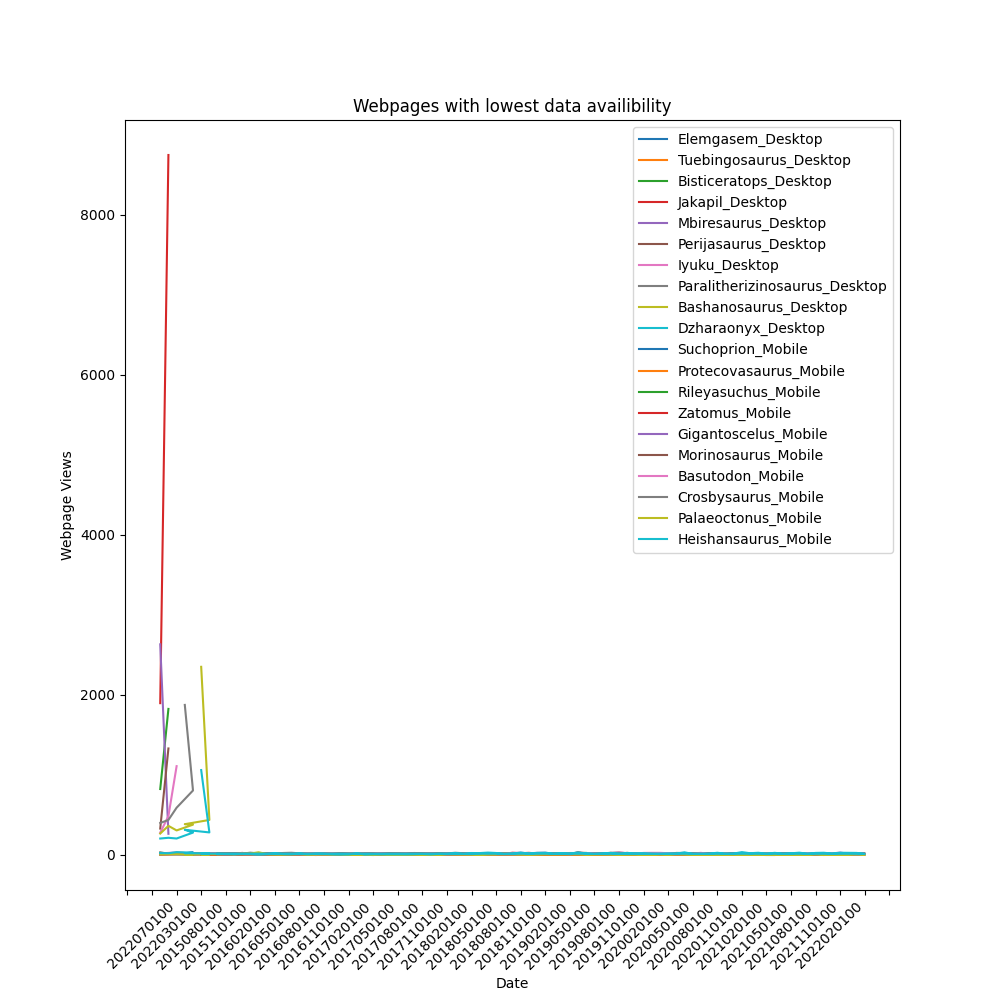
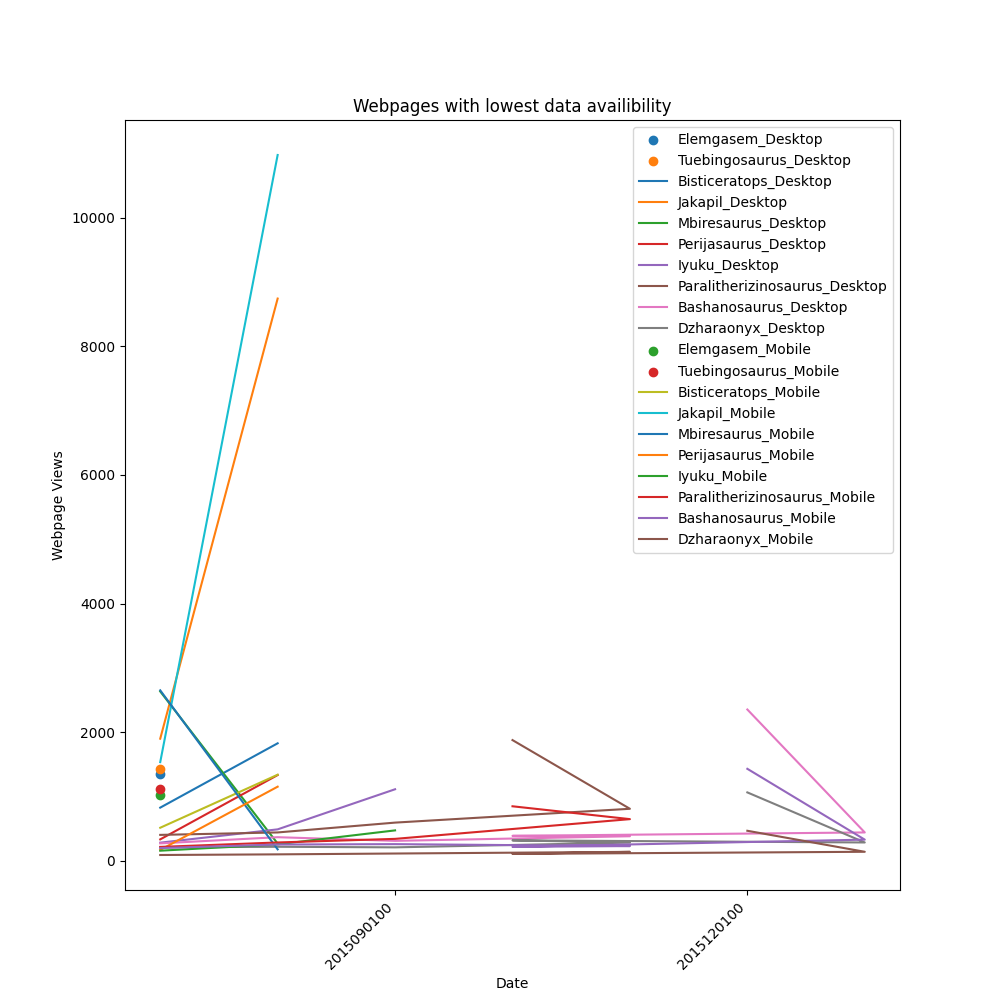
fixing an error with chart 3 which was showing X axis in a weird order

diff --git a/wikipedia_pageview_analysis.py b/wikipedia_pageview_analysis.py
@@ -66,15 +66,22 @@ def fewest_months_of_data_calculator(timeseries):
 
 #this function will take a dictionary containing names and timeseries and plot them all together on a matplotlib plot
 #also will take title of the plot and ylabel of the plot and an output file name to save the image to.
-def time_series_plotter(name_to_timeseries, title, ylabel, output_f_name):
+#if a definite X-Axis is to be set, set xaxis to a non-null value, a list.
+def time_series_plotter(name_to_timeseries, title, ylabel, output_f_name, xaxis = None):
     fig = plt.figure(figsize=(10, 10))
-    ax = fig.add_subplot(1,1,1)  
+    ax = fig.add_subplot(1,1,1)
+    print(xaxis)
+    if xaxis: #if we want to set a definite x axis we can do so.
+        plt.xticks([i for i in range(len(xaxis))],xaxis)
     for name, timeseries in name_to_timeseries.items():
         #timestamps = [datetime.strptime(month["timestamp"], "%Y%M%d%S") for month in timeseries]
         timestamps = [month["timestamp"] for month in timeseries]
         
         views = [month["views"] for month in timeseries]
-        plt.plot(timestamps, views, label=name)
+        if len(timestamps) == 1:
+            plt.scatter(timestamps, views, label=name)
+        else:
+            plt.plot(timestamps, views, label=name)
     ax.xaxis.set_major_locator(mdates.DayLocator(interval=3)) #this will set our x labels not to be so close together and only every 3 months
     plt.legend()
     plt.xticks(rotation=45, ha='right')
@@ -171,11 +178,13 @@ def generate_least_data_chart(desktop_json, mobile_json, output_f_name = CHART_3
 
     num_months_mobile = {}
     for name,timeseries in mobile_json.items():
-        num_months= max_page_view_calculator(timeseries)
+        num_months= fewest_months_of_data_calculator(timeseries)
         num_months_mobile[name] = num_months
     #lets identify which 10 dinosaur had least data on desktop and mobile
     lowest_months_desktop = sorted(num_months_desktop, key=num_months_desktop.get)[:10]
     lowest_months_mobile = sorted(num_months_mobile, key=num_months_mobile.get)[:10]
+    full_data_range = desktop_json[sorted(num_months_desktop,  key=num_months_desktop.get)[-1]]
+    xaxis = [month["timestamp"] for month in full_data_range]
     print(lowest_months_desktop, lowest_months_mobile)
     #lets combine the lowest month count for mobile and desktop together so we can plot it
     name_to_timeseries = {}
@@ -184,7 +193,7 @@ def generate_least_data_chart(desktop_json, mobile_json, output_f_name = CHART_3
 
     for name in lowest_months_mobile:
         name_to_timeseries[name + "_Mobile"] = mobile_json[name]
-    time_series_plotter(name_to_timeseries, chart_title, chart_y_axis , output_f_name)
+    time_series_plotter(name_to_timeseries, chart_title, chart_y_axis , output_f_name, xaxis)
 
 desktop_json, mobile_json = load_data()
 generate_average_chart(desktop_json, mobile_json)
